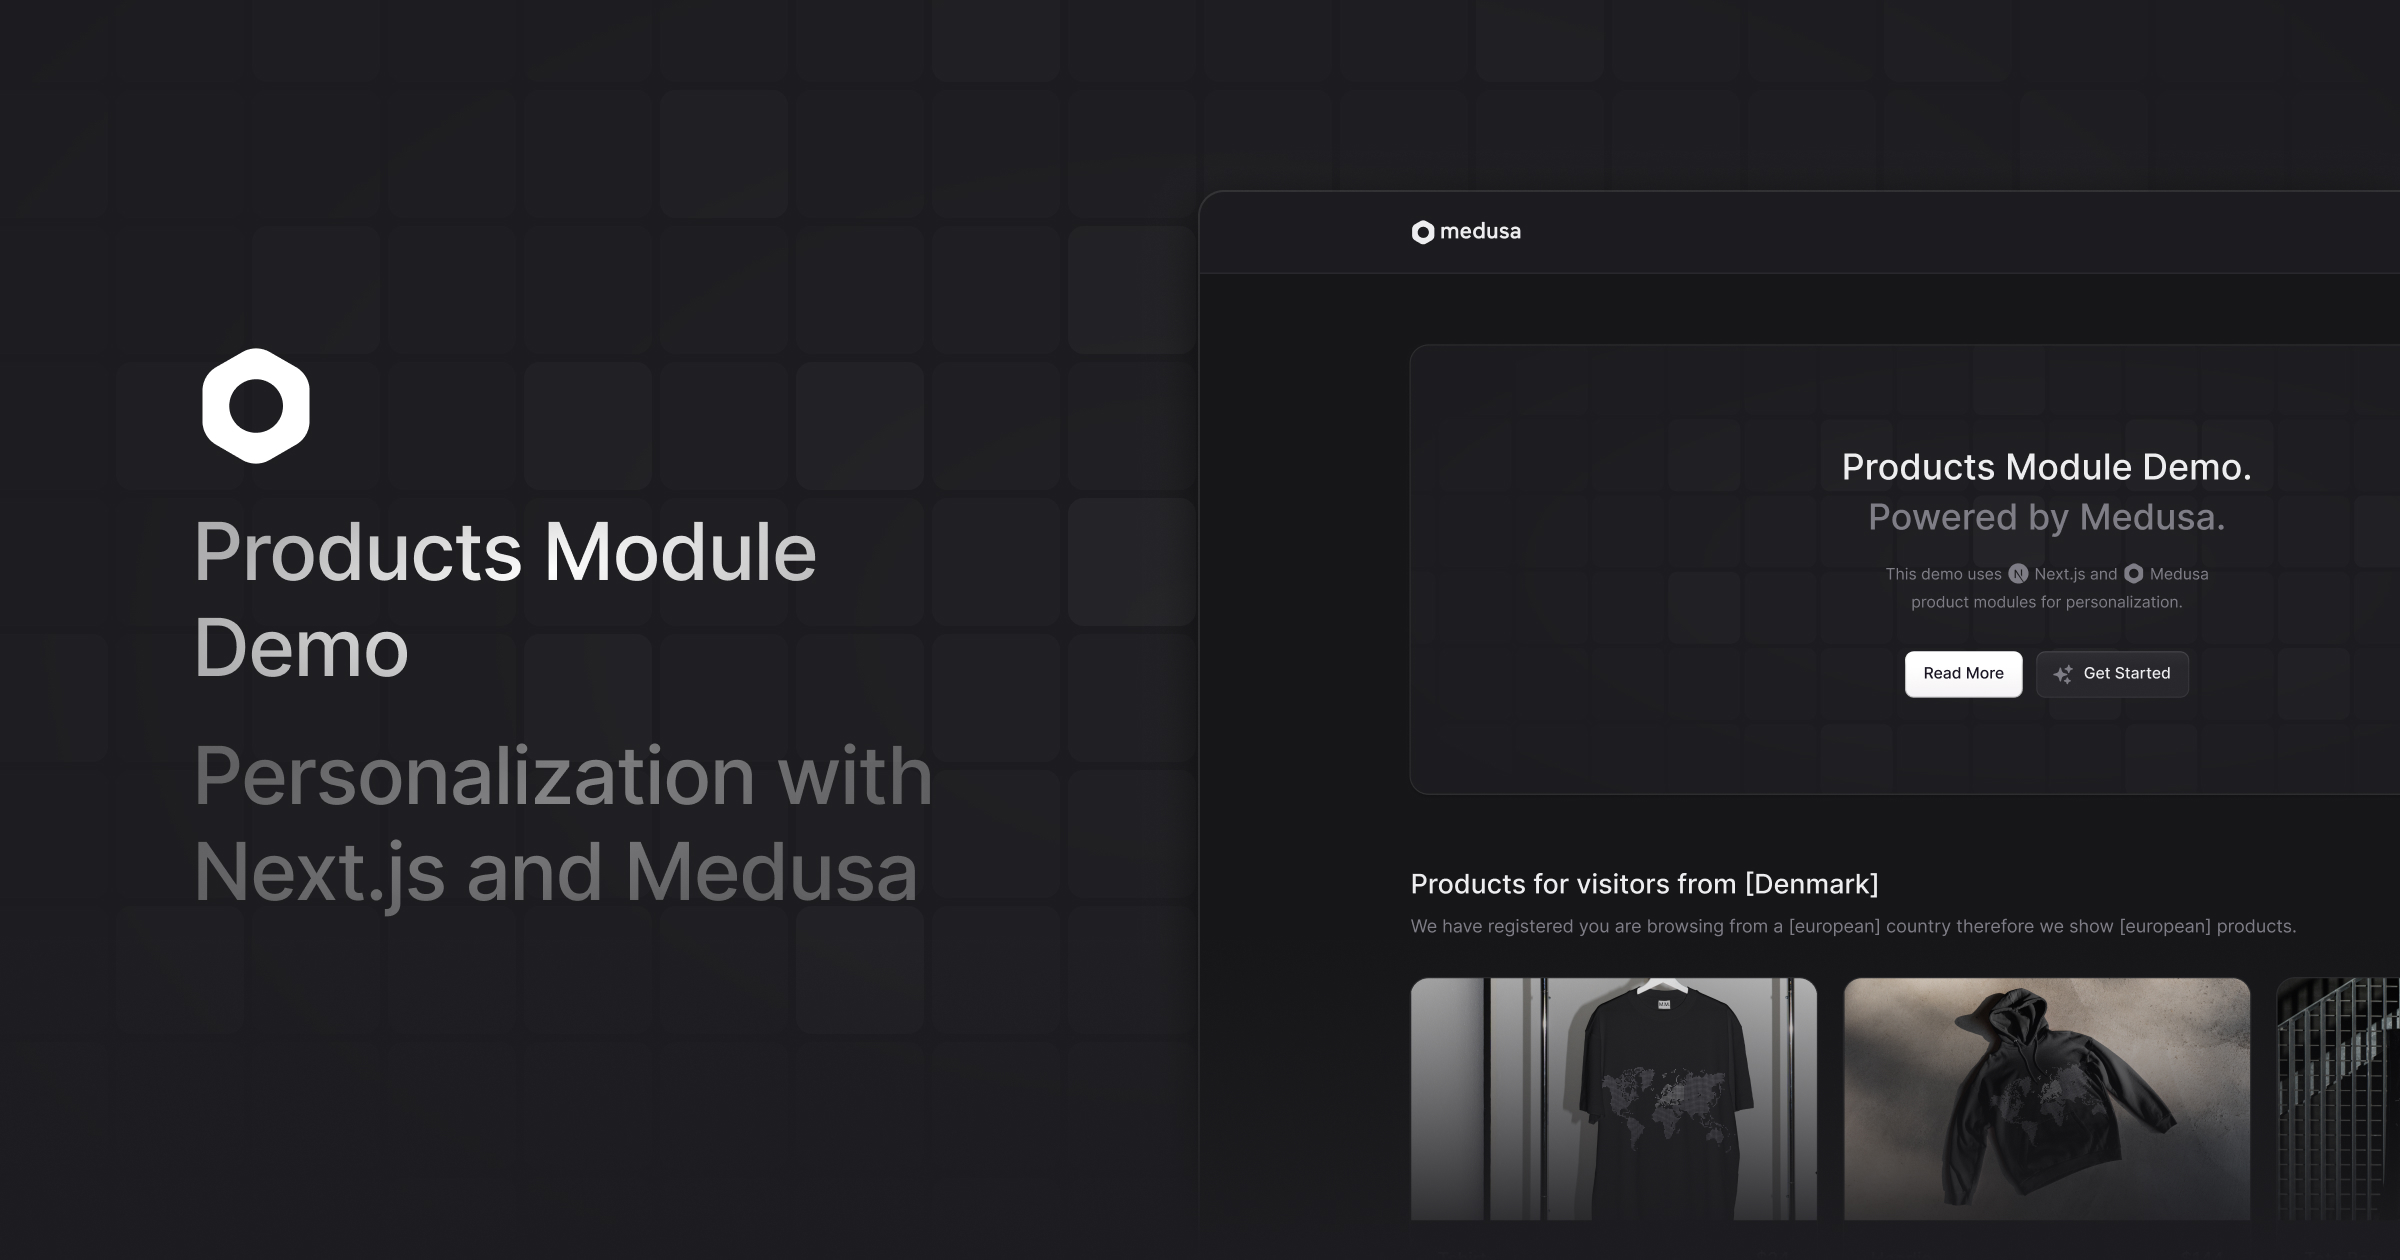
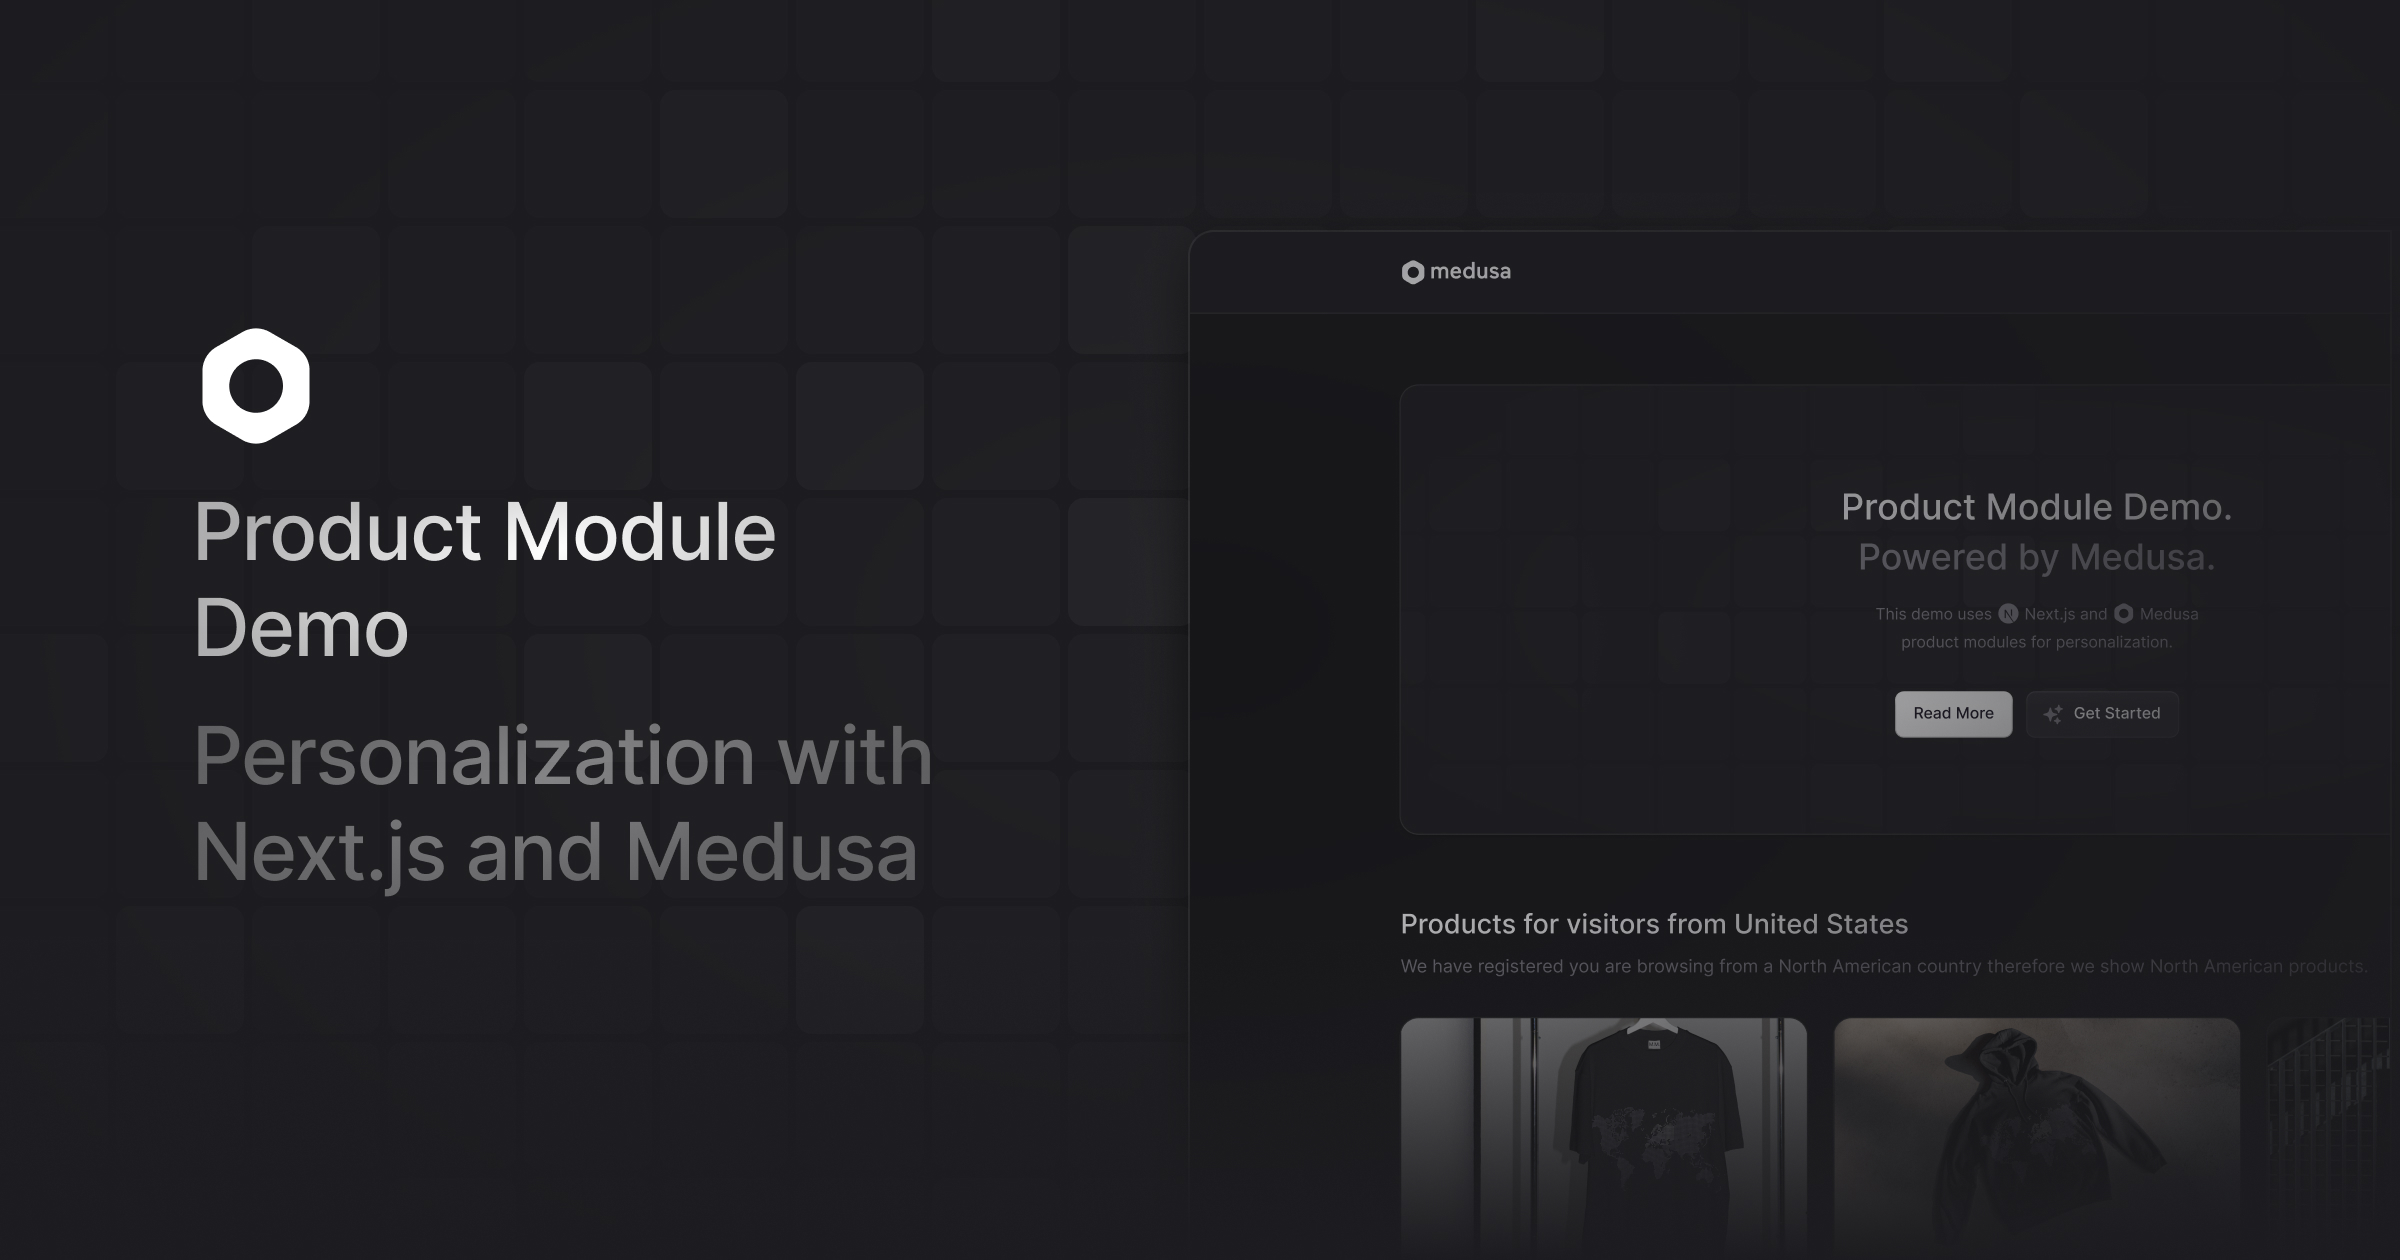
fix: products to product

diff --git a/src/app/about/page.tsx b/src/app/about/page.tsx
@@ -23,7 +23,7 @@ export default async function AboutModal() {
           <div className="inset-0 flex flex-col gap-6 items-center justify-center">
             <div className="flex flex-col gap-2 items-center justify-center text-center text-headers-h3 md:text-4xl">
               <div className="text-base-light dark:text-base-dark">
-                Products Module Demo
+                Product Module Demo
               </div>
               <div className="text-subtle-light dark:text-subtle-dark">
                 Powered by Medusa
@@ -44,7 +44,7 @@ export default async function AboutModal() {
           </a>
 
           <h4 className="flex flex-wrap gap-x-1 gap-y-2 text-headers-h4 text-base-light dark:text-base-dark">
-            Medusa Products Module demo in
+            Medusa Product Module demo in
             <span className="flex flex-row items-center gap-1">
               <Nextjs fill="#FFFFFF" />
               Next.js
@@ -52,8 +52,8 @@ export default async function AboutModal() {
             functions
           </h4>
           <p className="text-subtle-light dark:text-subtle-dark text-body-regular">
-            This demo showcases our Products Module running in a serverless
-            Next.js function. In the demo, we&apos;re using the Products Module
+            This demo showcases our Product Module running in a serverless
+            Next.js function. In the demo, we&apos;re using the Product Module
             to personalize the storefront in real time based on the user
             location and behavior.
           </p>
@@ -72,7 +72,7 @@ export default async function AboutModal() {
             Why run it from a Next.js function?
           </h4>
           <p className="text-subtle-light dark:text-subtle-dark text-body-regular">
-            Running Medusa&apos;s Products Module in a serverless function
+            Running Medusa&apos;s Product Module in a serverless function
             provides several benefits over hosting a conventional backend:
           </p>
           <ul className="list-disc ml-8 text-subtle-light dark:text-subtle-dark text-body-regular">
@@ -134,9 +134,9 @@ export default async function AboutModal() {
           </div>
 
           <ul className="list-none w-full">
-            <CustomListItem title="Products Module">
+            <CustomListItem title="Product Module">
               <span className="text-base-dark text-labels-regular">
-                Initialize the Products Module.
+                Initialize the Product Module.
               </span>
               <p>Simply initialize the module in the Next.js API route.</p>
               <CodeSnippet
@@ -235,10 +235,10 @@ export default async function AboutModal() {
           <div className="h-px bg-gradient-to-r from-transparent via-[#2E2E32] to-transparent my-6 md:my-10"></div>
 
           <h4 className="text-headers-h4 text-base-light dark:text-base-dark">
-            Start building with the Products Module in Next.js
+            Start building with the Product Module in Next.js
           </h4>
           <p className="text-subtle-light dark:text-subtle-dark text-body-regular">
-            Ready to get started with the Medusa Products Module in your Next.js
+            Ready to get started with the Medusa Product Module in your Next.js
             app? Visit our{" "}
             <a
               className="hover:text-subtle-light text-base-dark"

diff --git a/src/app/api/products/route.ts b/src/app/api/products/route.ts
@@ -12,9 +12,9 @@ type Data = {
 };
 
 export async function GET(req: NextRequest) {
-  const start = performance.now()
+  const start = performance.now();
 
-  // If already instaciated, it will return the instance or create a new one
+  // If already instantiated, it will return the instance or create a new one
   const productService = await ProductModuleInitialize();
 
   const countryCode: string = req.headers.get("x-country") ?? "US";
@@ -49,8 +49,8 @@ export async function GET(req: NextRequest) {
       },
     });
   } finally {
-    const end = performance.now()
-    console.log(`[API] GET took ${end - start}ms`)
+    const end = performance.now();
+    console.log(`[API] GET took ${end - start}ms`);
   }
 }
 
@@ -63,36 +63,40 @@ async function queryProducts(
   const userId = req.headers.get("x-userId");
   let categoryId, categoryName;
 
-  const start = performance.now()
+  const start = performance.now();
 
   const [userData, ...productsData] = await Promise.all([
     userId ? kv.get<UserData>(userId) : Promise.resolve({} as UserData),
-    productService.list(
-      {
-        tags: { value: [continent] },
-      },
-      {
-        select: ["id"],
-        take: 3,
-      }
-    ).finally((data: ProductTypes.ProductDTO[]) => {
-      const end = performance.now()
-      console.log(`[API] productService.list take 3 took ${end - start}ms`)
-      return data
-    }),
-    productService.list(
-      {},
-      {
-        relations: ["variants", "categories", "tags"],
-        order: { id: "DESC" },
-        take: 100,
-      }
-    ).finally((data: ProductTypes.ProductDTO[]) => {
-      const end = performance.now()
-      console.log(`[API] productService.list take 100 took ${end - start}ms`)
-      return data
-    }),
-  ])
+    productService
+      .list(
+        {
+          tags: { value: [continent] },
+        },
+        {
+          select: ["id"],
+          take: 3,
+        }
+      )
+      .finally((data: ProductTypes.ProductDTO[]) => {
+        const end = performance.now();
+        console.log(`[API] productService.list take 3 took ${end - start}ms`);
+        return data;
+      }),
+    productService
+      .list(
+        {},
+        {
+          relations: ["variants", "categories", "tags"],
+          order: { id: "DESC" },
+          take: 100,
+        }
+      )
+      .finally((data: ProductTypes.ProductDTO[]) => {
+        const end = performance.now();
+        console.log(`[API] productService.list take 100 took ${end - start}ms`);
+        return data;
+      }),
+  ]);
 
   categoryId = userData?.categoryId;
   categoryName = userData?.categoryName;
@@ -130,9 +134,8 @@ function orderProductByCategoryIdFirst({
 
   let recentlyViewedProducts: ProductTypes.ProductDTO[] = [];
   if (recentlyVisitedCategoryId) {
-    recentlyViewedProducts = categoryProductsMap.get(
-      recentlyVisitedCategoryId
-    ) ?? [];
+    recentlyViewedProducts =
+      categoryProductsMap.get(recentlyVisitedCategoryId) ?? [];
     categoryProductsMap.delete(recentlyVisitedCategoryId);
   }
 

diff --git a/src/app/layout.tsx b/src/app/layout.tsx
@@ -11,16 +11,16 @@ const inter = Inter({ subsets: ["latin"] });
 
 export const metadata = {
   title: {
-    template: "%s | Medusa Products Module Demo",
-    default: "Medusa Products Module Demo",
+    template: "%s | Medusa Product Module Demo",
+    default: "Medusa Product Module Demo",
   },
   description:
-    "Learn how to use the Medusa Products Module in a Next.js function to personalize your storefront. Discover the benefits of running the Products Module in a serverless environment and get started building today.",
+    "Learn how to use the Medusa Product Module in a Next.js function to personalize your storefront. Discover the benefits of running the Product Module in a serverless environment and get started building today.",
   openGraph: {
-    title: "Medusa Products Module Demo",
-    siteName: "Medusa Products Module Demo",
+    title: "Medusa Product Module Demo",
+    siteName: "Medusa Product Module Demo",
     description:
-      "Learn how to use the Medusa Products Module in a Next.js function to personalize your storefront. Discover the benefits of running the Products Module in a serverless environment and get started building today.",
+      "Learn how to use the Medusa Product Module in a Next.js function to personalize your storefront. Discover the benefits of running the Product Module in a serverless environment and get started building today.",
     type: "website",
     author: "MedusaJS",
     images: "/product-module-demo-thumbnail.jpg",

diff --git a/src/components/common/hero/Hero.tsx b/src/components/common/hero/Hero.tsx
@@ -9,7 +9,7 @@ const Hero = () => {
       <div className="inset-0 flex flex-col gap-6 items-center justify-center p-4">
         <div className="flex flex-col gap-4 items-center justify-center text-center">
           <div className="text-base-light dark:text-base-dark text-3xl md:text-4xl">
-            Products Module Demo
+            Product Module Demo
           </div>
           <div className="flex flex-wrap flex-inline justify-center gap-x-1 gap-y-2 text-subtle-light dark:text-subtle-dark max-w-fit text-center">
             <span className="flex flex-row gap-1 flex-wrap justify-center">
@@ -22,7 +22,7 @@ const Hero = () => {
               <span className="flex flex-row items-center gap-1">
                 <Medusa /> Medusa
               </span>
-              Products Module
+              Product Module
             </span>
             for personalization.
           </div>
@@ -39,7 +39,7 @@ const Hero = () => {
           <ol className="list-decimal ml-4 text-subtle-dark text-labels-small space-y-1">
             <li>
               The time it takes for Vercel Function to respond with products
-              using our Products Module.
+              using our Product Module.
             </li>
             <li>The region of Vercel Function.</li>
             <li>We store last viewed product category in Vercel KV.</li>
